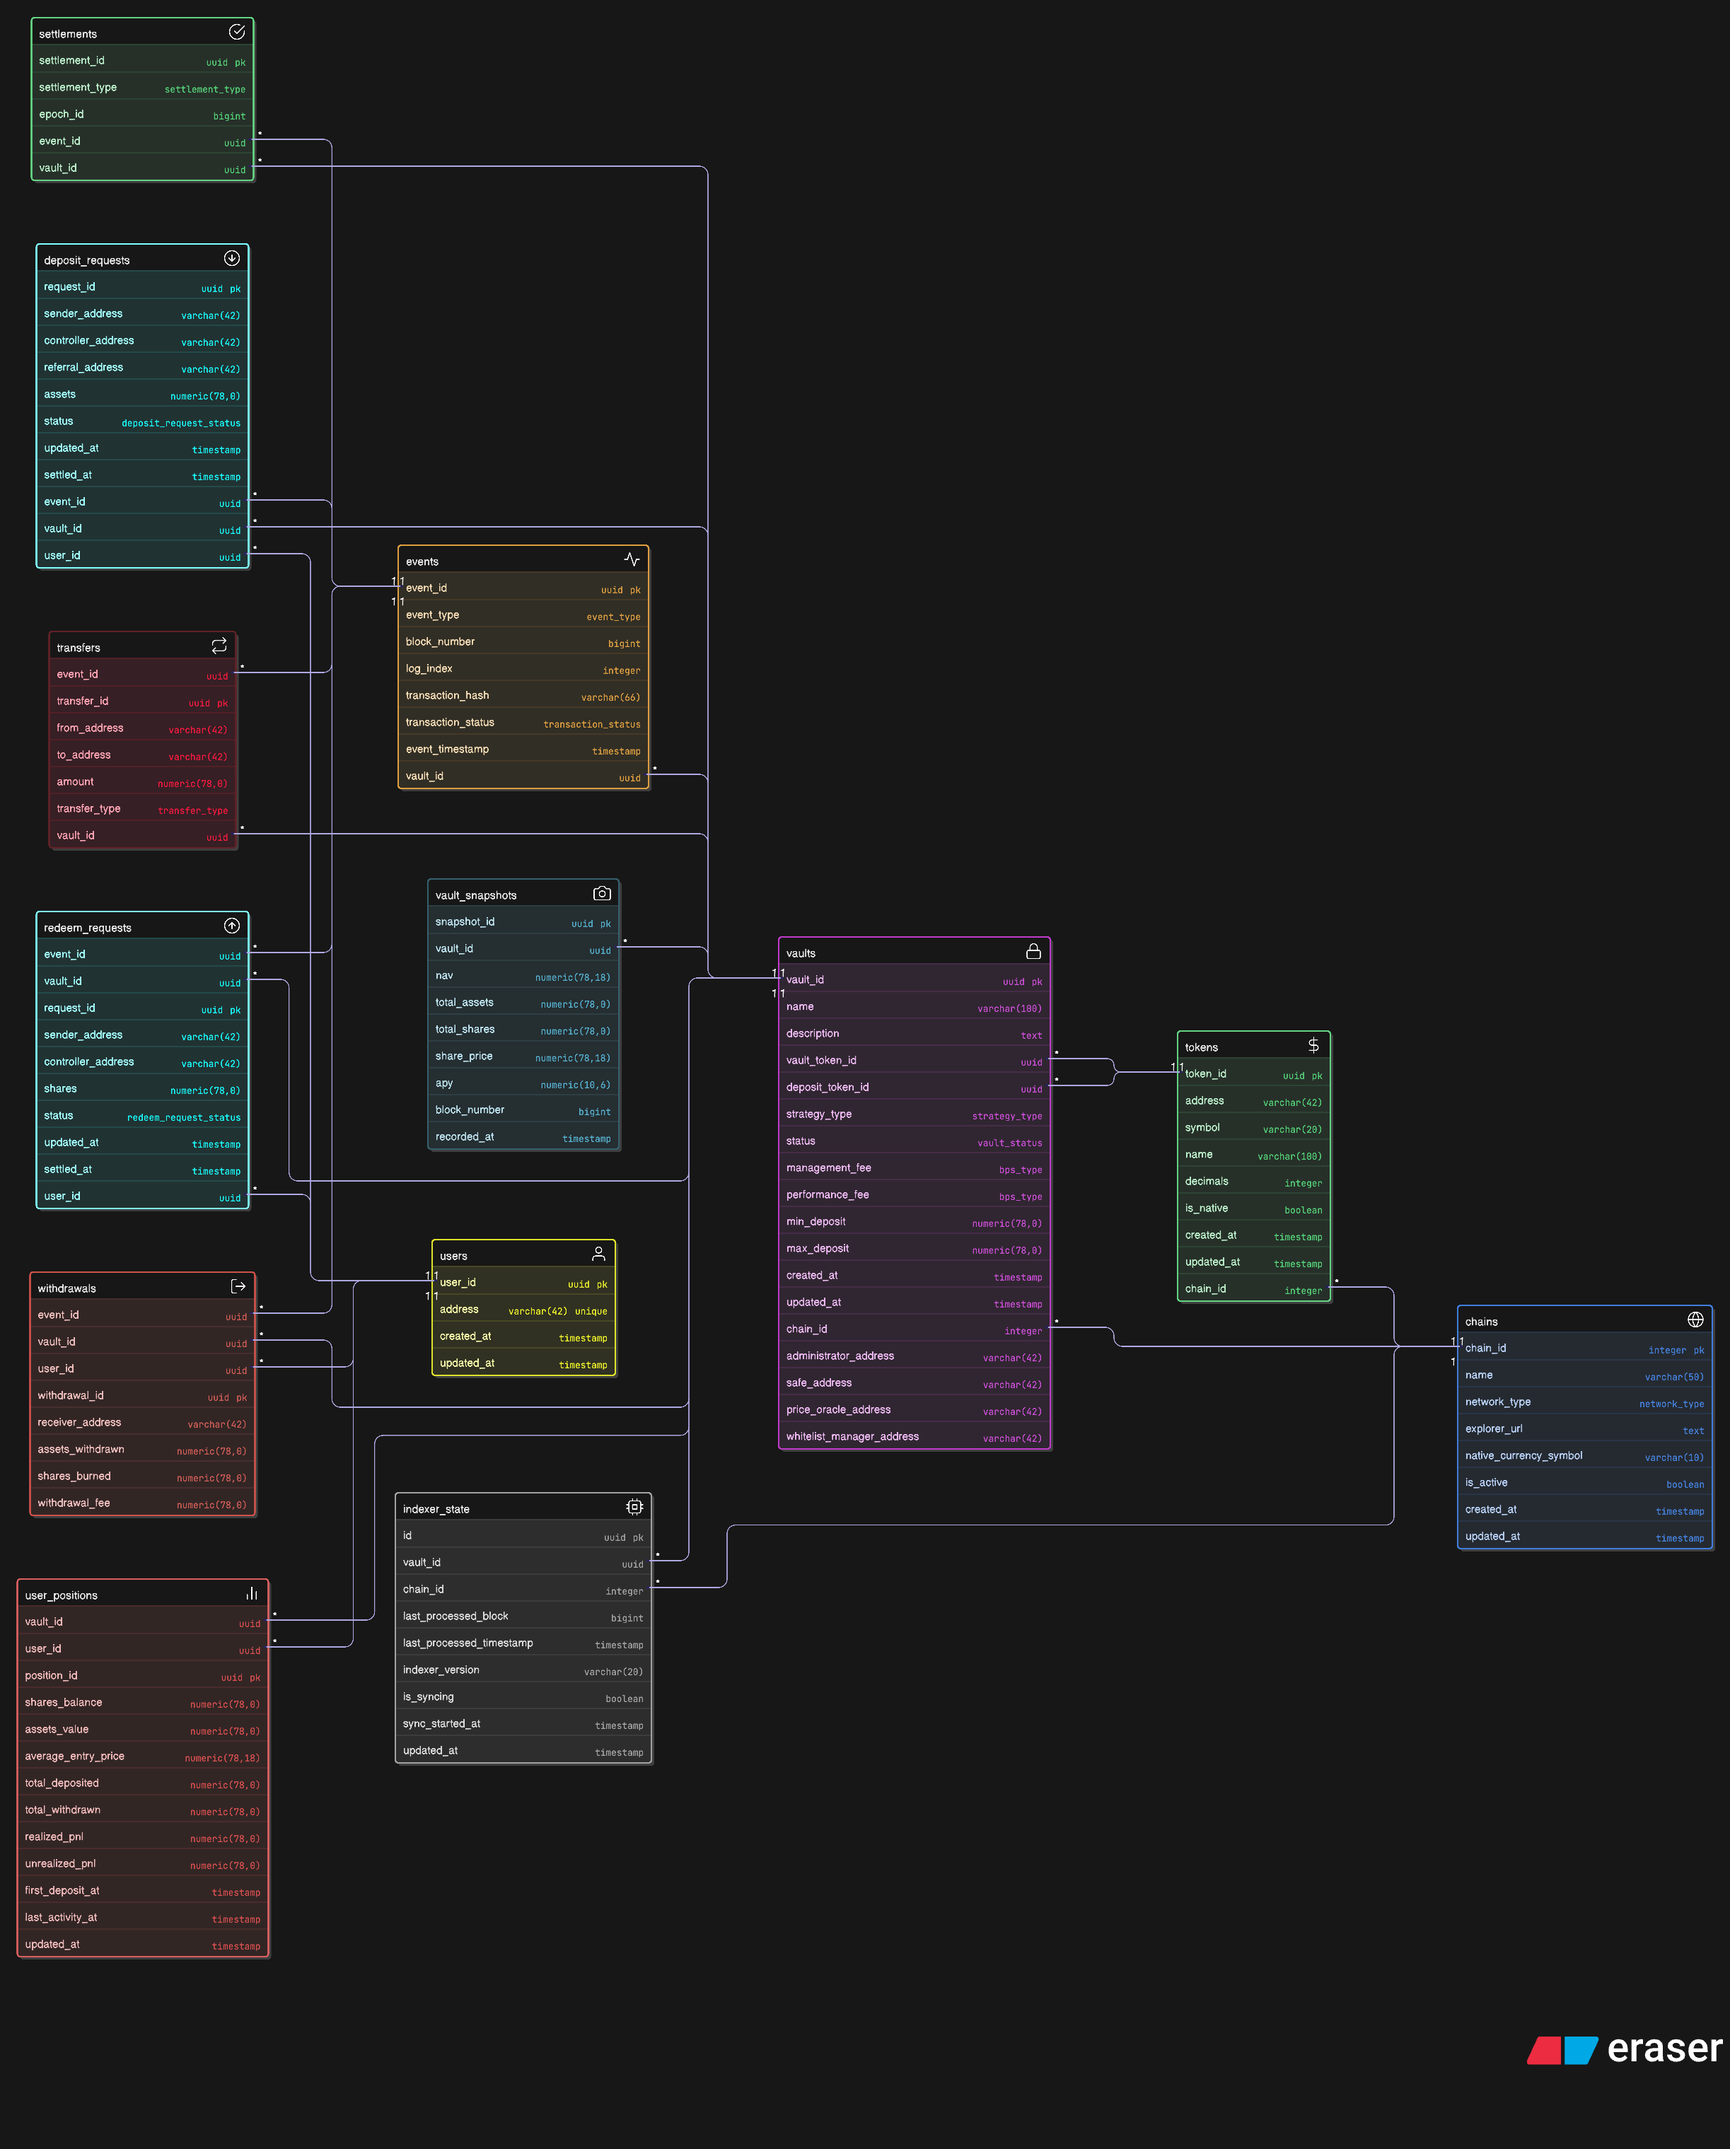
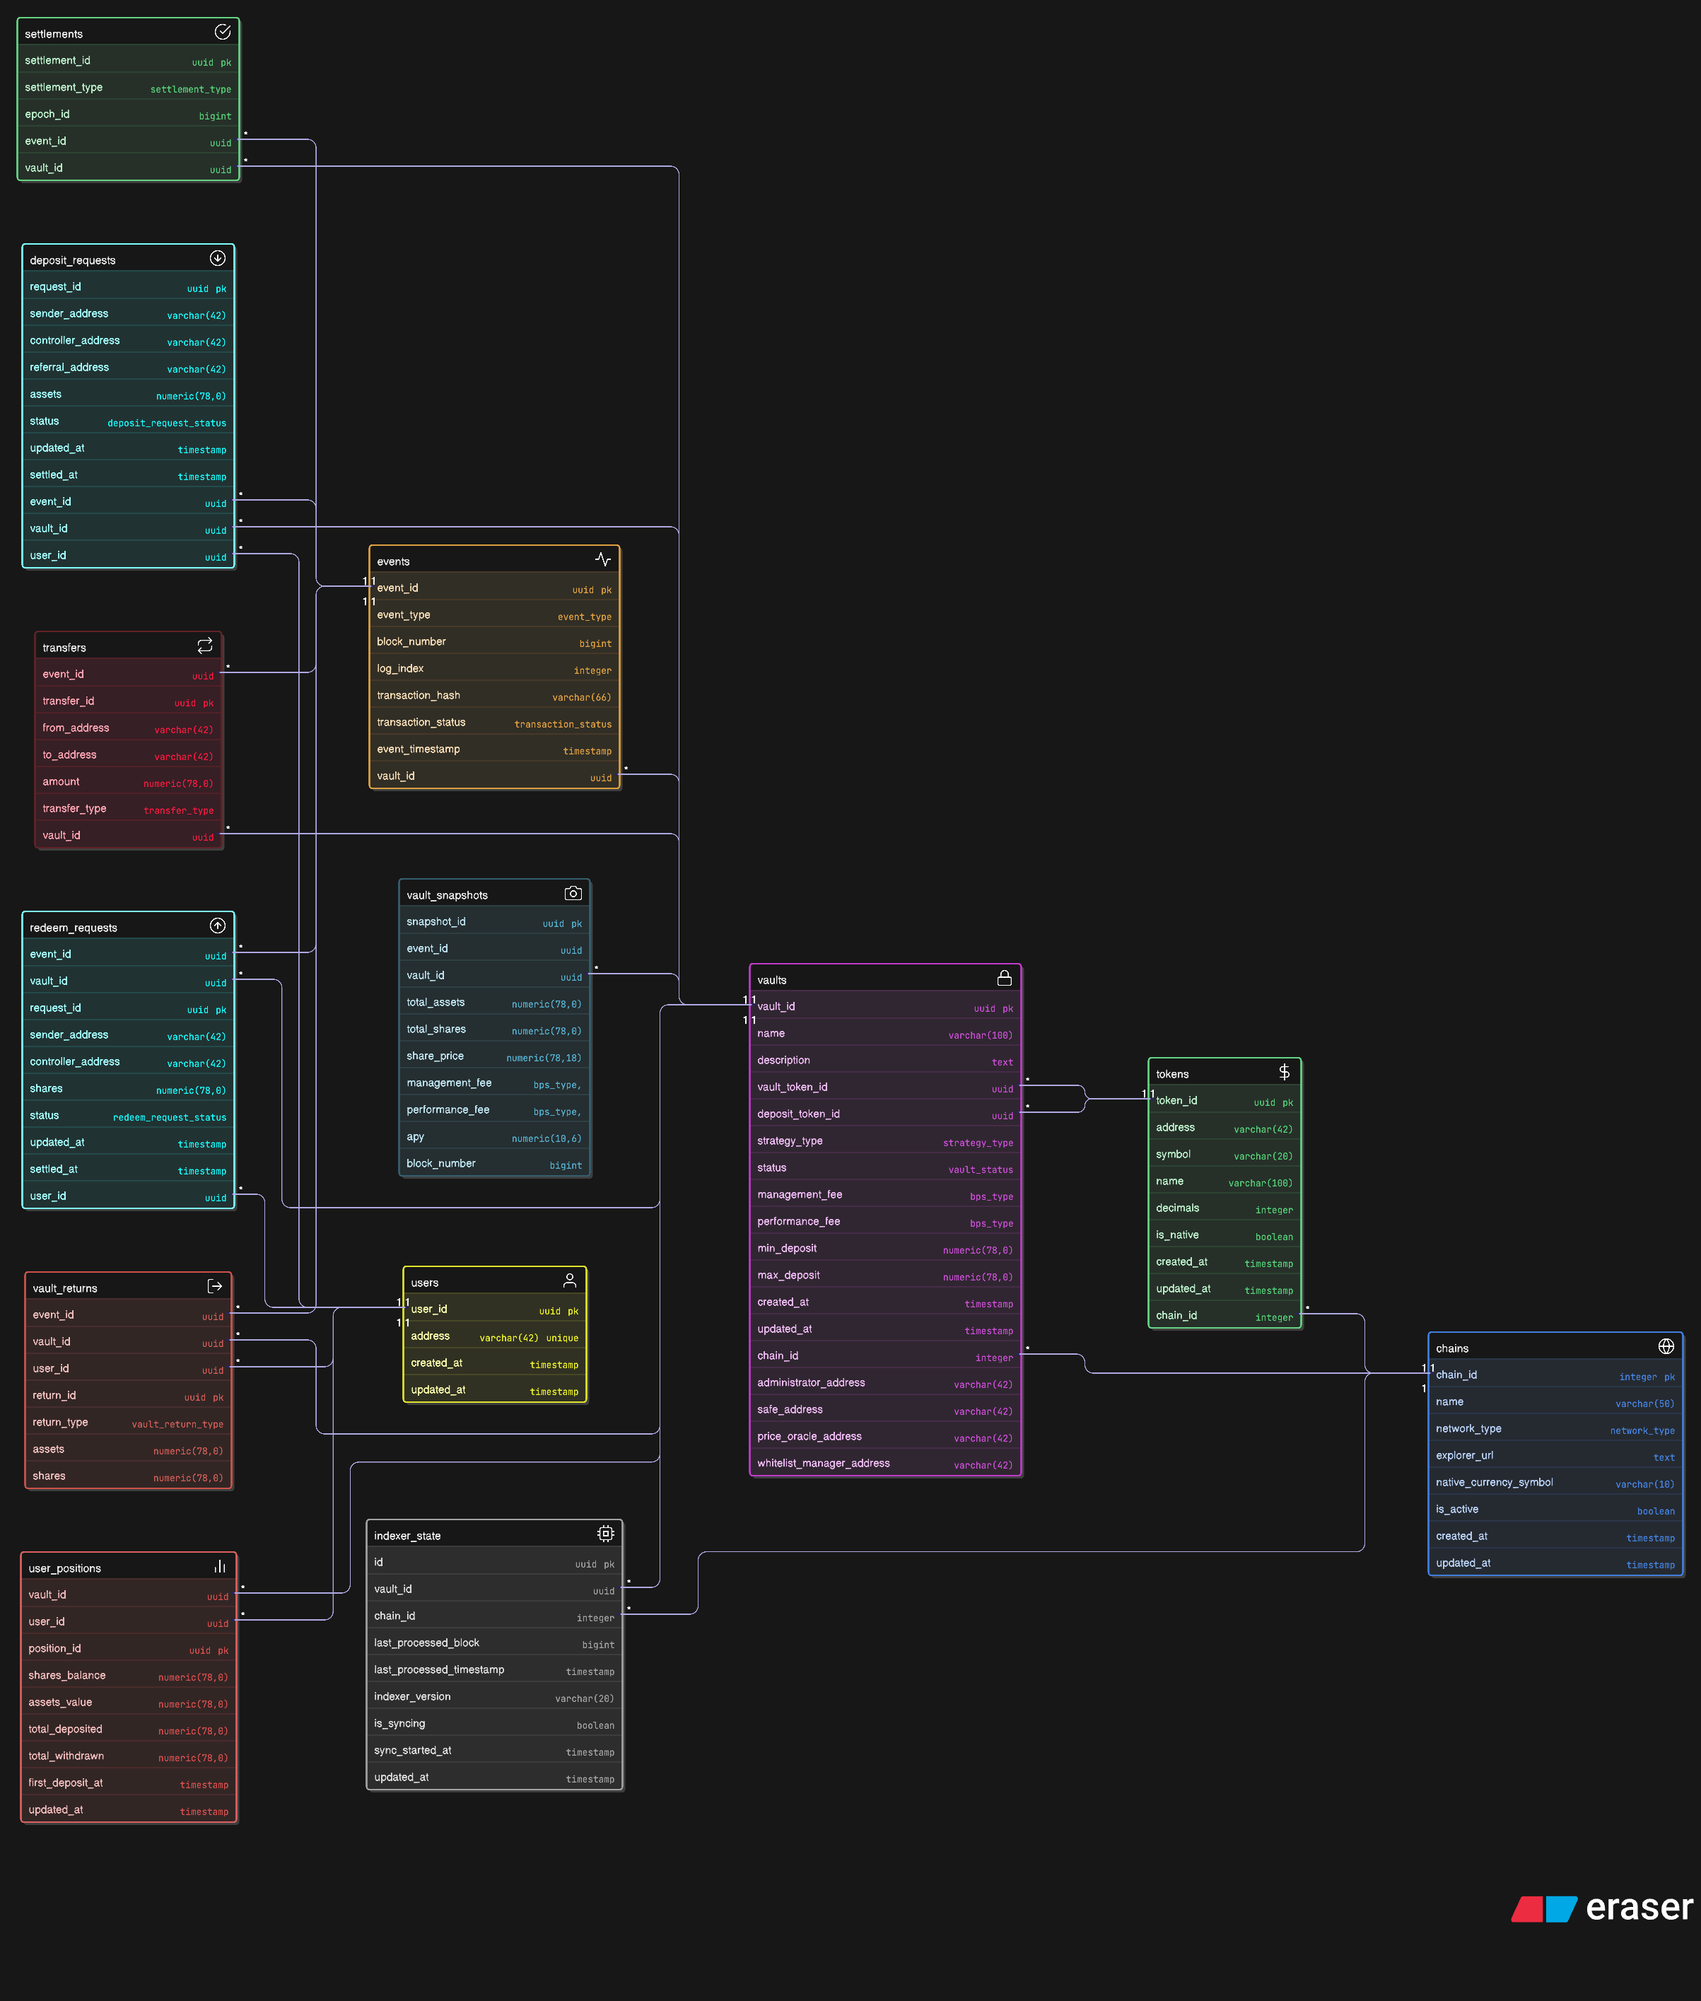
feat(schema): unify deposits and withdrawals into vault_returns table; link events to vault_snapshots
- Introduced returns table to generalize vault output operations
- Defined vault_return_type enum with deposit and withdrawal variants
- Added event_id reference to vault_snapshots to link updates to total_assets_updated events
- Ensures consistent tracking of controller-to-user returns and vault state changes

diff --git a/lagoon-indexer/db/README.md b/lagoon-indexer/db/README.md
@@ -15,17 +15,17 @@ The database is designed to track all operations related to Lagoon vaults, inclu
 
 ### Transaction Tables
 
-- `events`: Base table for all blockchain events
+- `events`: Base table for relevant Lagoon events
 - `deposit_requests`: Tracks deposit operations
 - `redeem_requests`: Tracks redemption operations
-- `transfers`: Records token transfers
-- `withdrawals`: Manages withdrawal operations
+- `transfers`: Tracks token transfers
+- `vault_returns`: Tracks withdrawal and deposit events
 - `settlements`: Tracks settlement events
 
 ### State Tables
 
 - `vault_snapshots`: Records vault performance metrics
-- `user_positions`: Tracks user balances and PnL
+- `user_positions`: Tracks user balances
 - `indexer_state`: Monitors blockchain indexing progress
 
 ## Key Features
